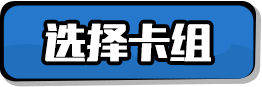
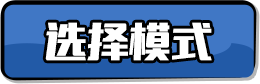
bugfixes

diff --git a/src/data/card.ts b/src/data/card.ts
@@ -285,13 +285,13 @@ export const CARD_MAP = {
 
 export const CARD_TYPE = {
     1: {
-        name: '普通卡组',
+        name: '普通模式',
     },
     2: {
-        name: '疯狂卡组',
+        name: '疯狂模式',
     },
     3: {
-        name: '乱舞卡组',
+        name: '乱舞模式',
     },
 };
 

diff --git a/src/scene/popup/component/cardPack.ts b/src/scene/popup/component/cardPack.ts
@@ -74,6 +74,9 @@ export class CardPack extends ui.popup.component.cardPackUI {
         this.type = type;
         if (type !== 'play') {
             this.staminaBox.visible = false;
+        }else{
+            this.chooseBtn.skin = 'images/component/cardType/btn_start.png'
         }
+        
     }
 }

diff --git a/src/scene/game/widget/alarm.ts b/src/scene/game/widget/alarm.ts
@@ -12,7 +12,7 @@ export interface Link {
 /** 显示的位置 */
 const show_pos = {
     x: 1146,
-    y: 432,
+    y: 260,
 };
 /** 隐藏的位置的位置 */
 const hide_pos = {
